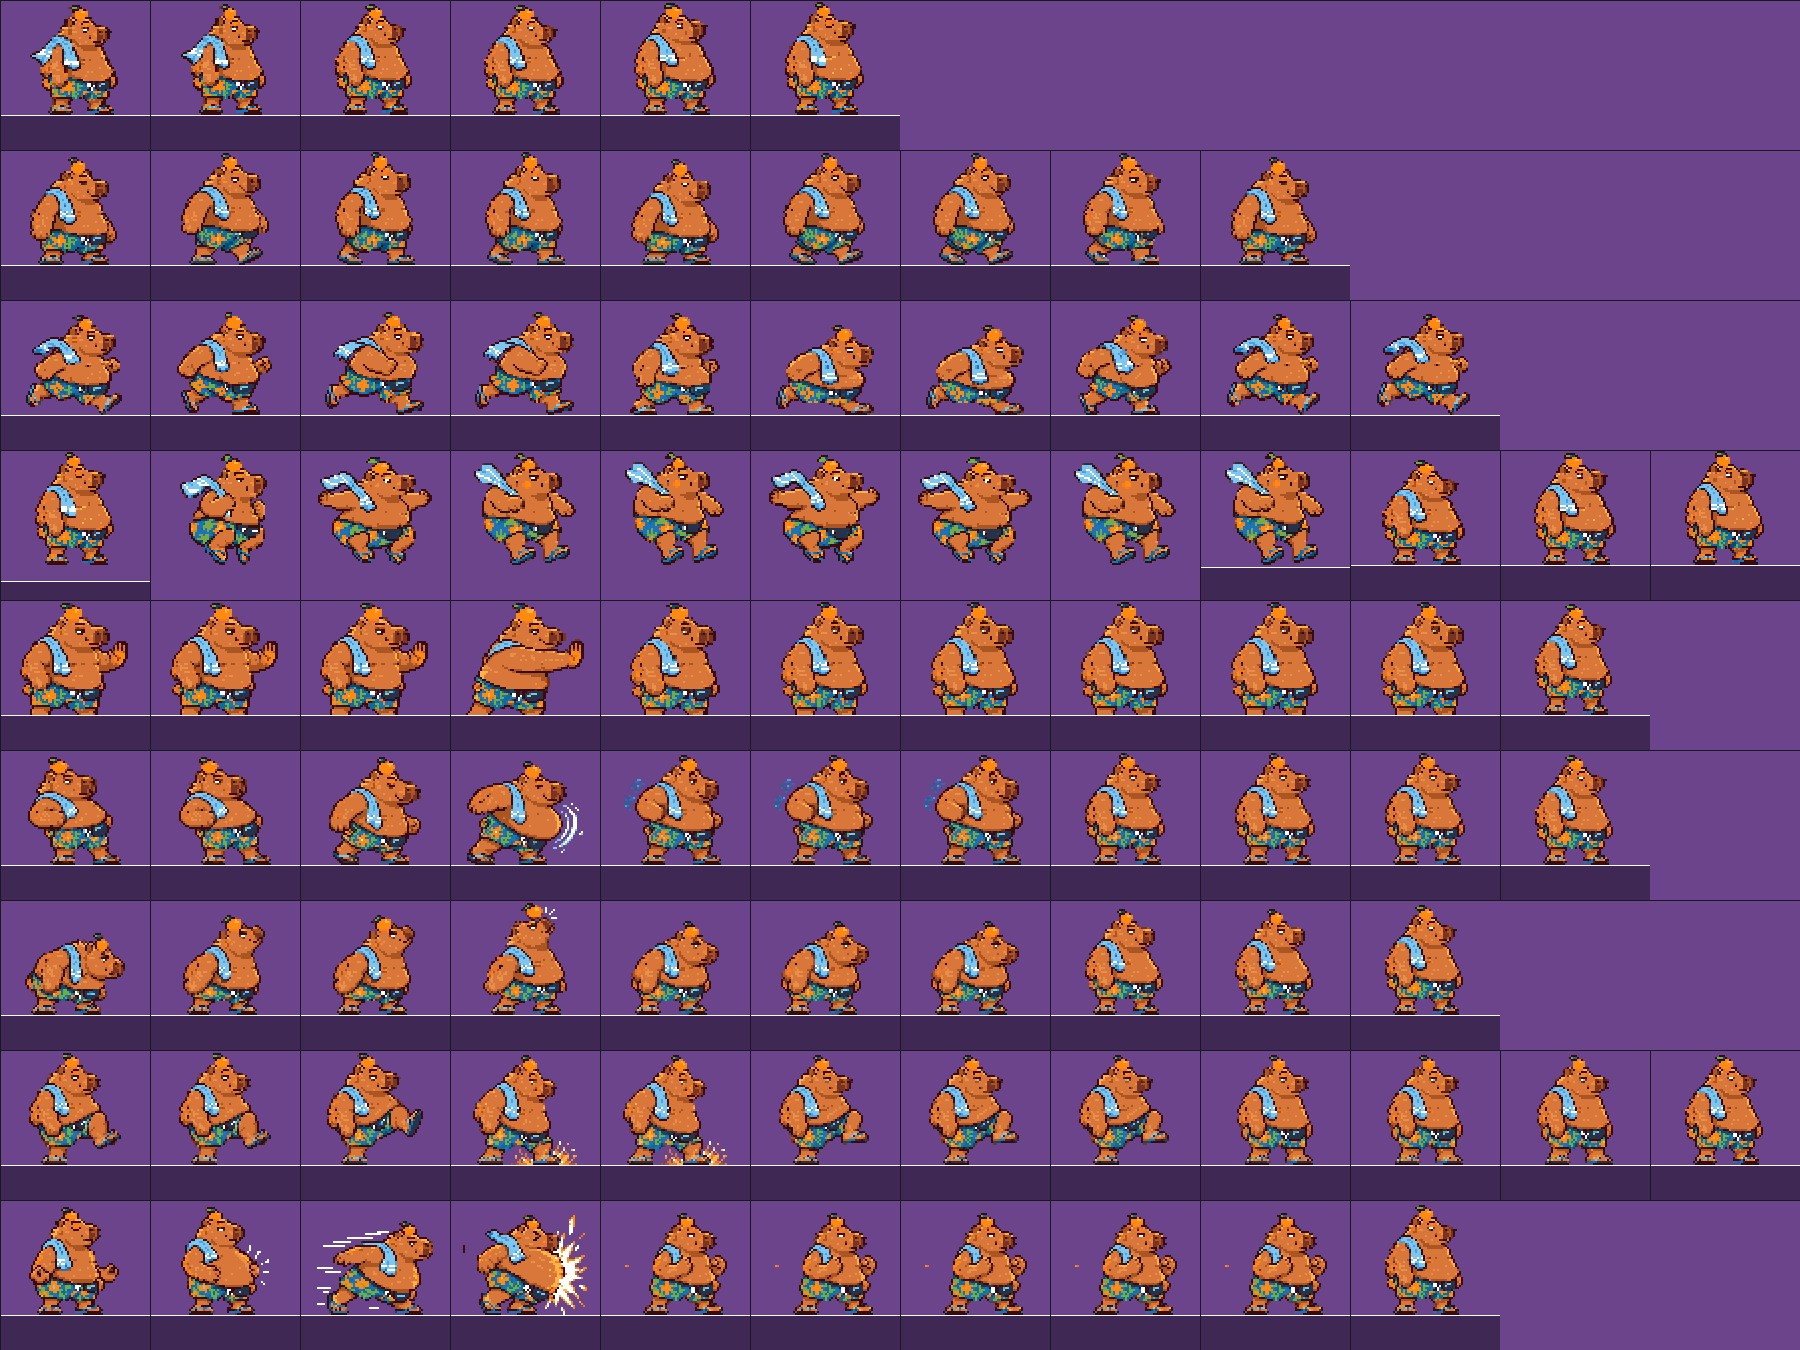
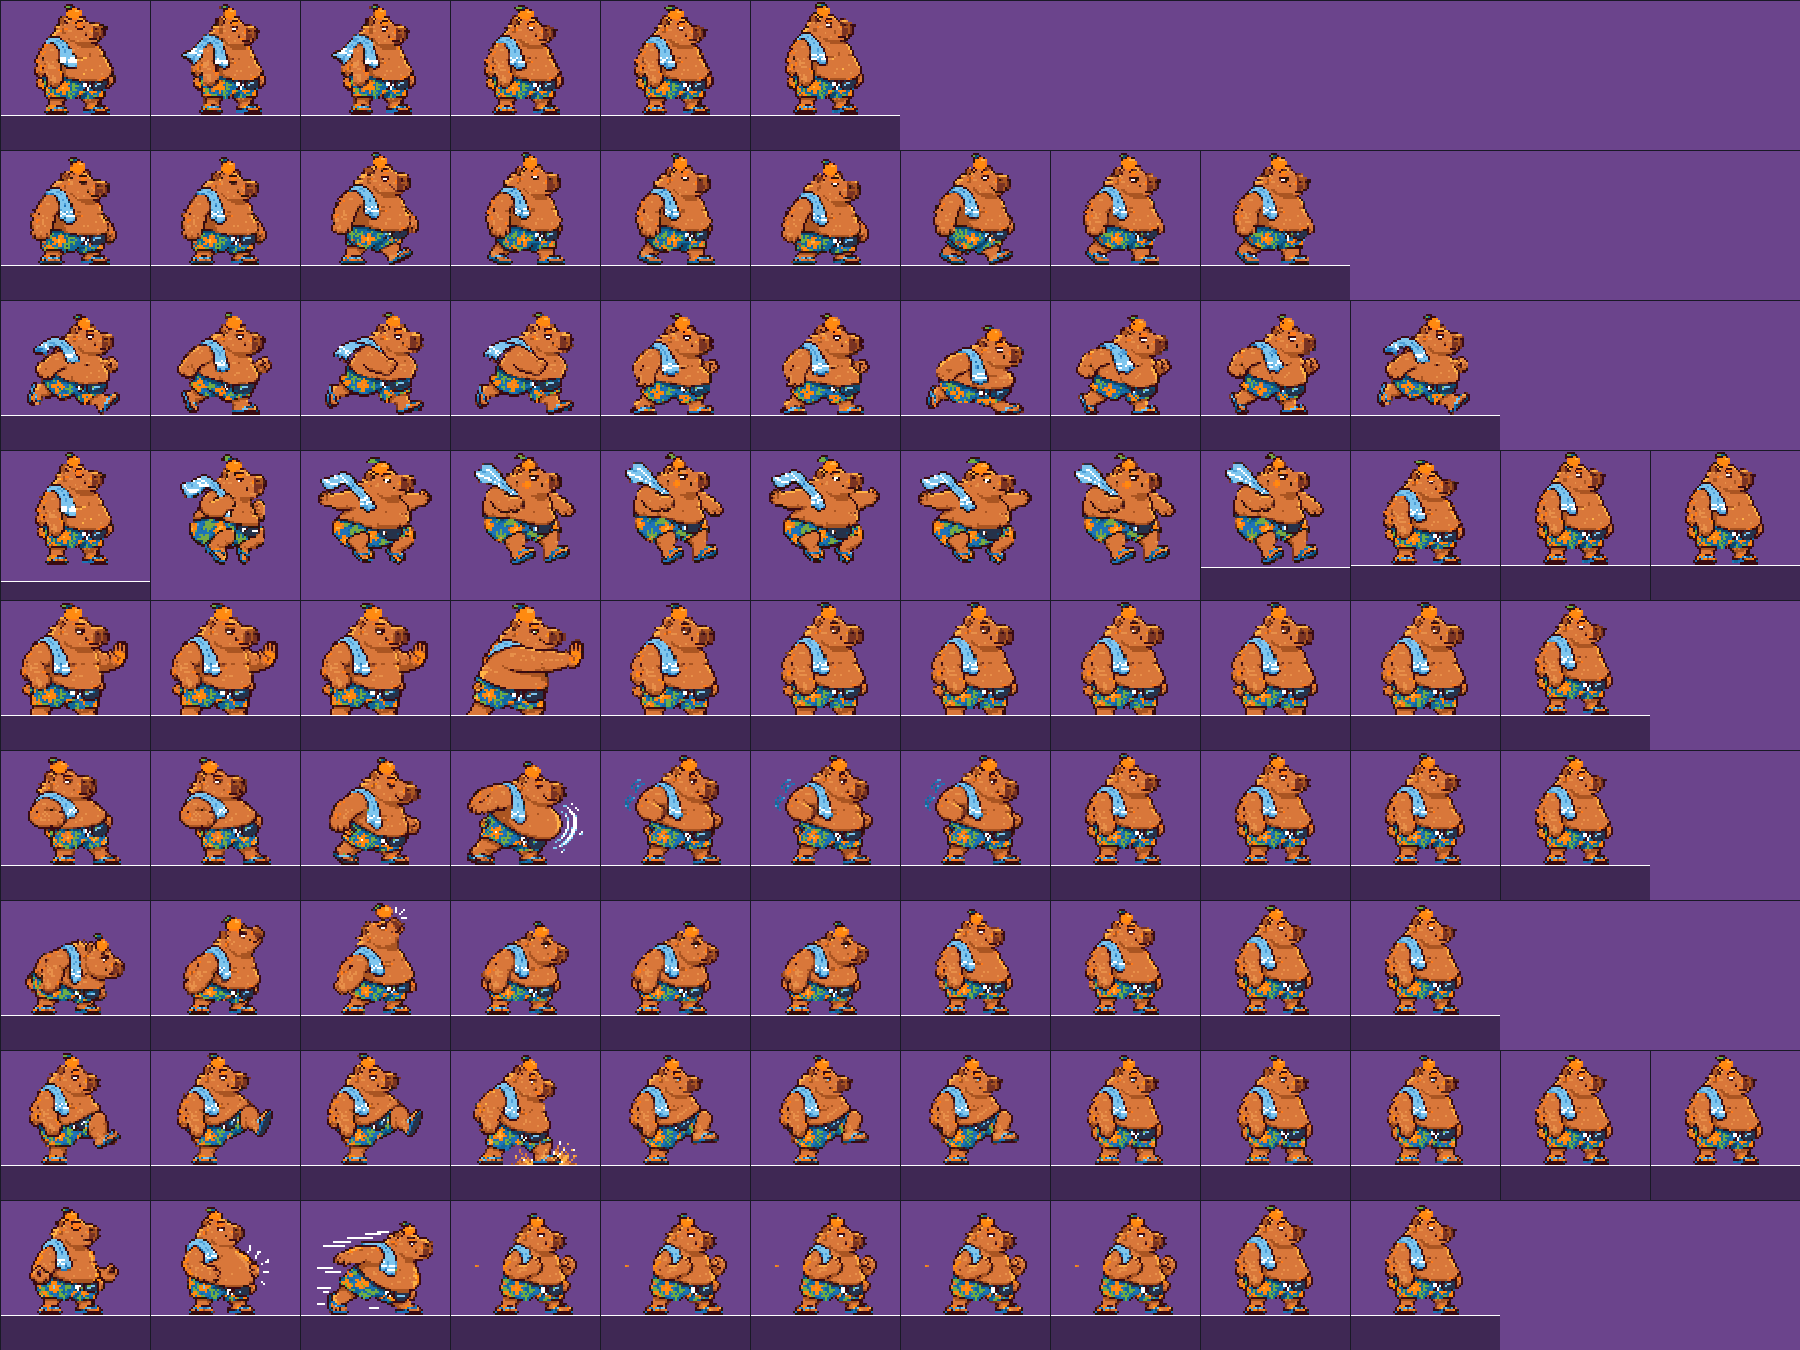
Import Seu Capivas' redone hurt sheet (4 frames)
The new sheet respects the grid, so the special frame pick in the
importer is gone and the hurt animation has hit, recoil and two tumble
frames like Juba's.

diff --git a/art/prompts/pixel/README.md b/art/prompts/pixel/README.md
@@ -79,10 +79,4 @@ Pode subir tudo junto num commit (de preferência direto na `main`) e me avisar.
 
 **No jogo:** as 23 animações do Juba e as 23 do Seu Capivas foram importadas (`game/tools/importar_pixel.gd`) e já aparecem na luta.
 
-**Refazer:**
-
-| Arquivo | Problema | O que mandar (anexe o sprite base) |
-|---|---|---|
-| `seu_capivas/dor.png` | Os 4 quadros vieram numa linha só, atravessando as células da grade; os do meio foram cortados. No jogo estão só o 1º e o 4º | `Refaça a folha "dor" do Seu Capivas respeitando a grade 3x2: UM quadro inteiro dentro de cada célula de 512x512, sem invadir a vizinha. Quadros: 1) tranco para trás, bochecha amassada · 2) laranjinha saindo do lugar · 3) lançado de costas no ar · 4) lançado girando. As duas células da segunda linha ficam vazias.` |
-
-Depois de salvar a folha nova, me avise: eu tiro o ajuste especial do importador e importo de novo.
+**Refeito:** `seu_capivas/dor.png` chegou certo (4 quadros dentro da grade) e já está no jogo. Nada pendente para refazer.
